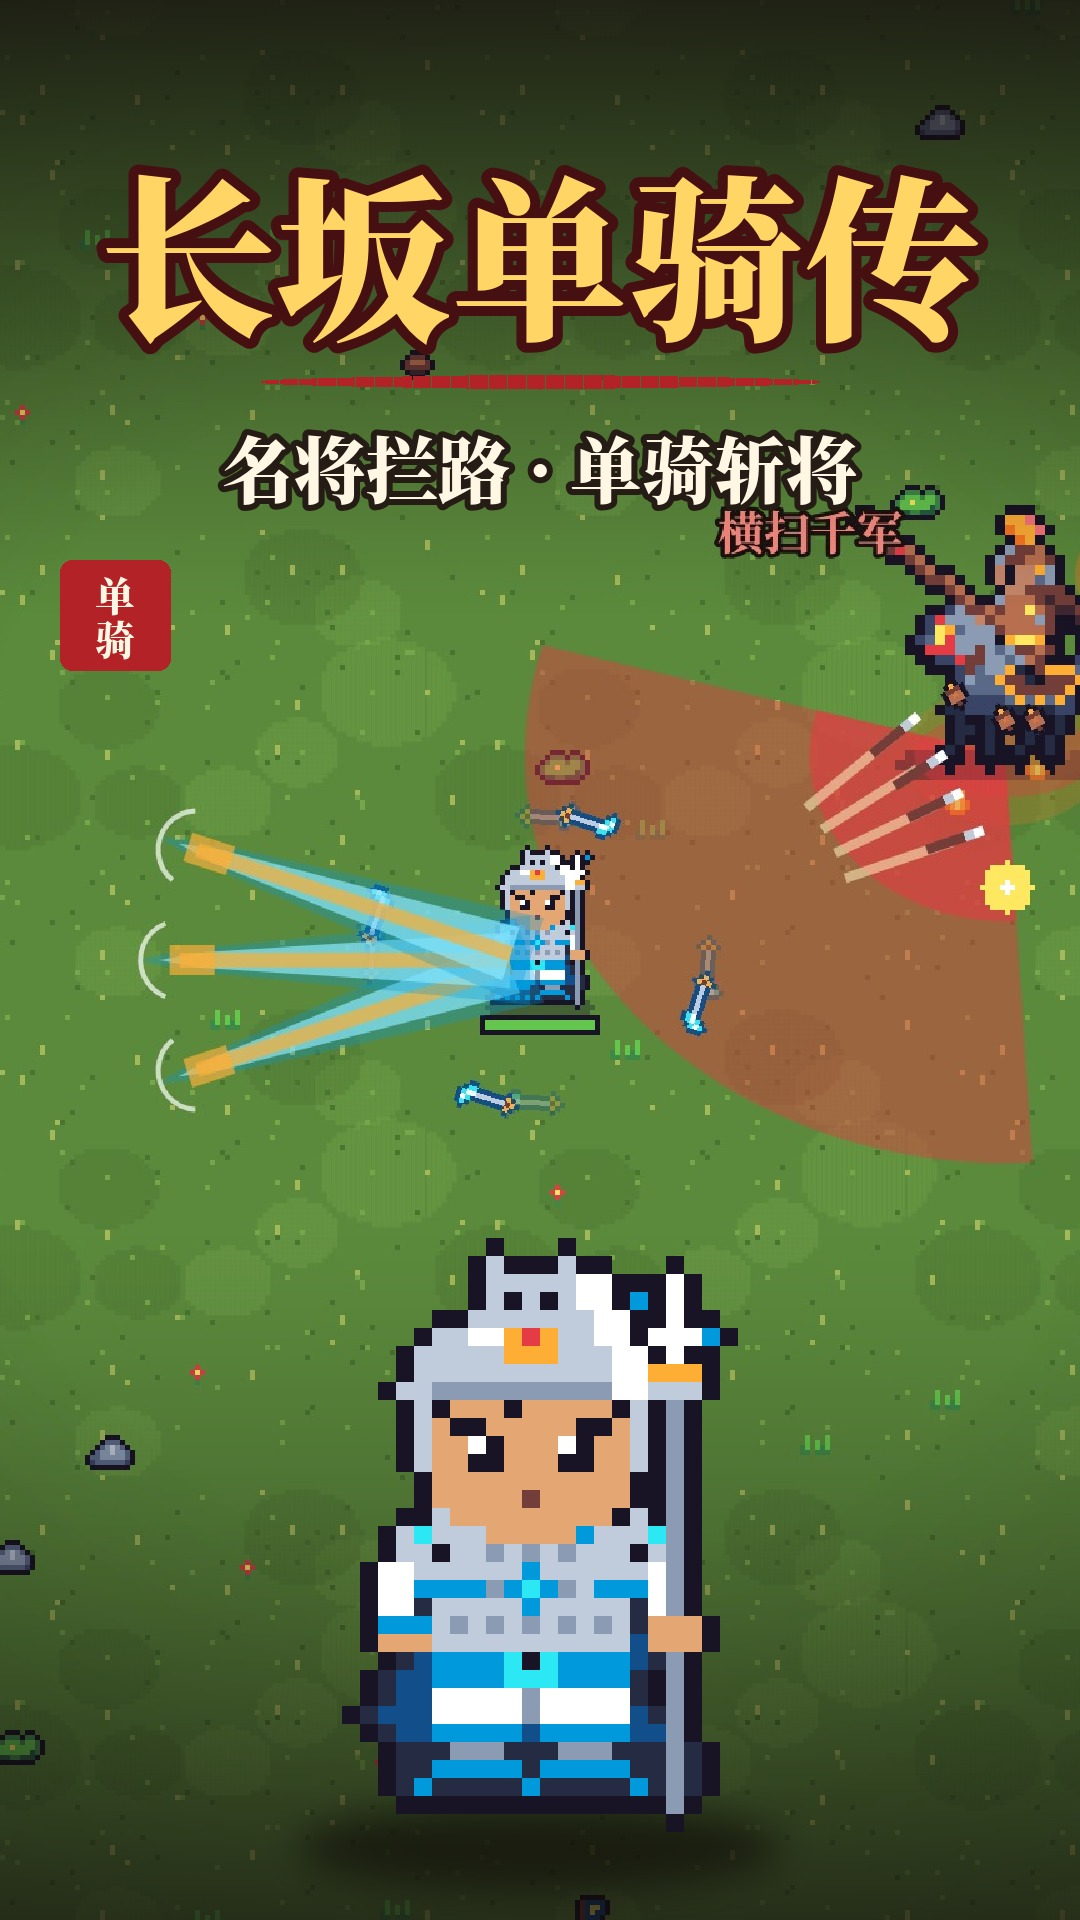
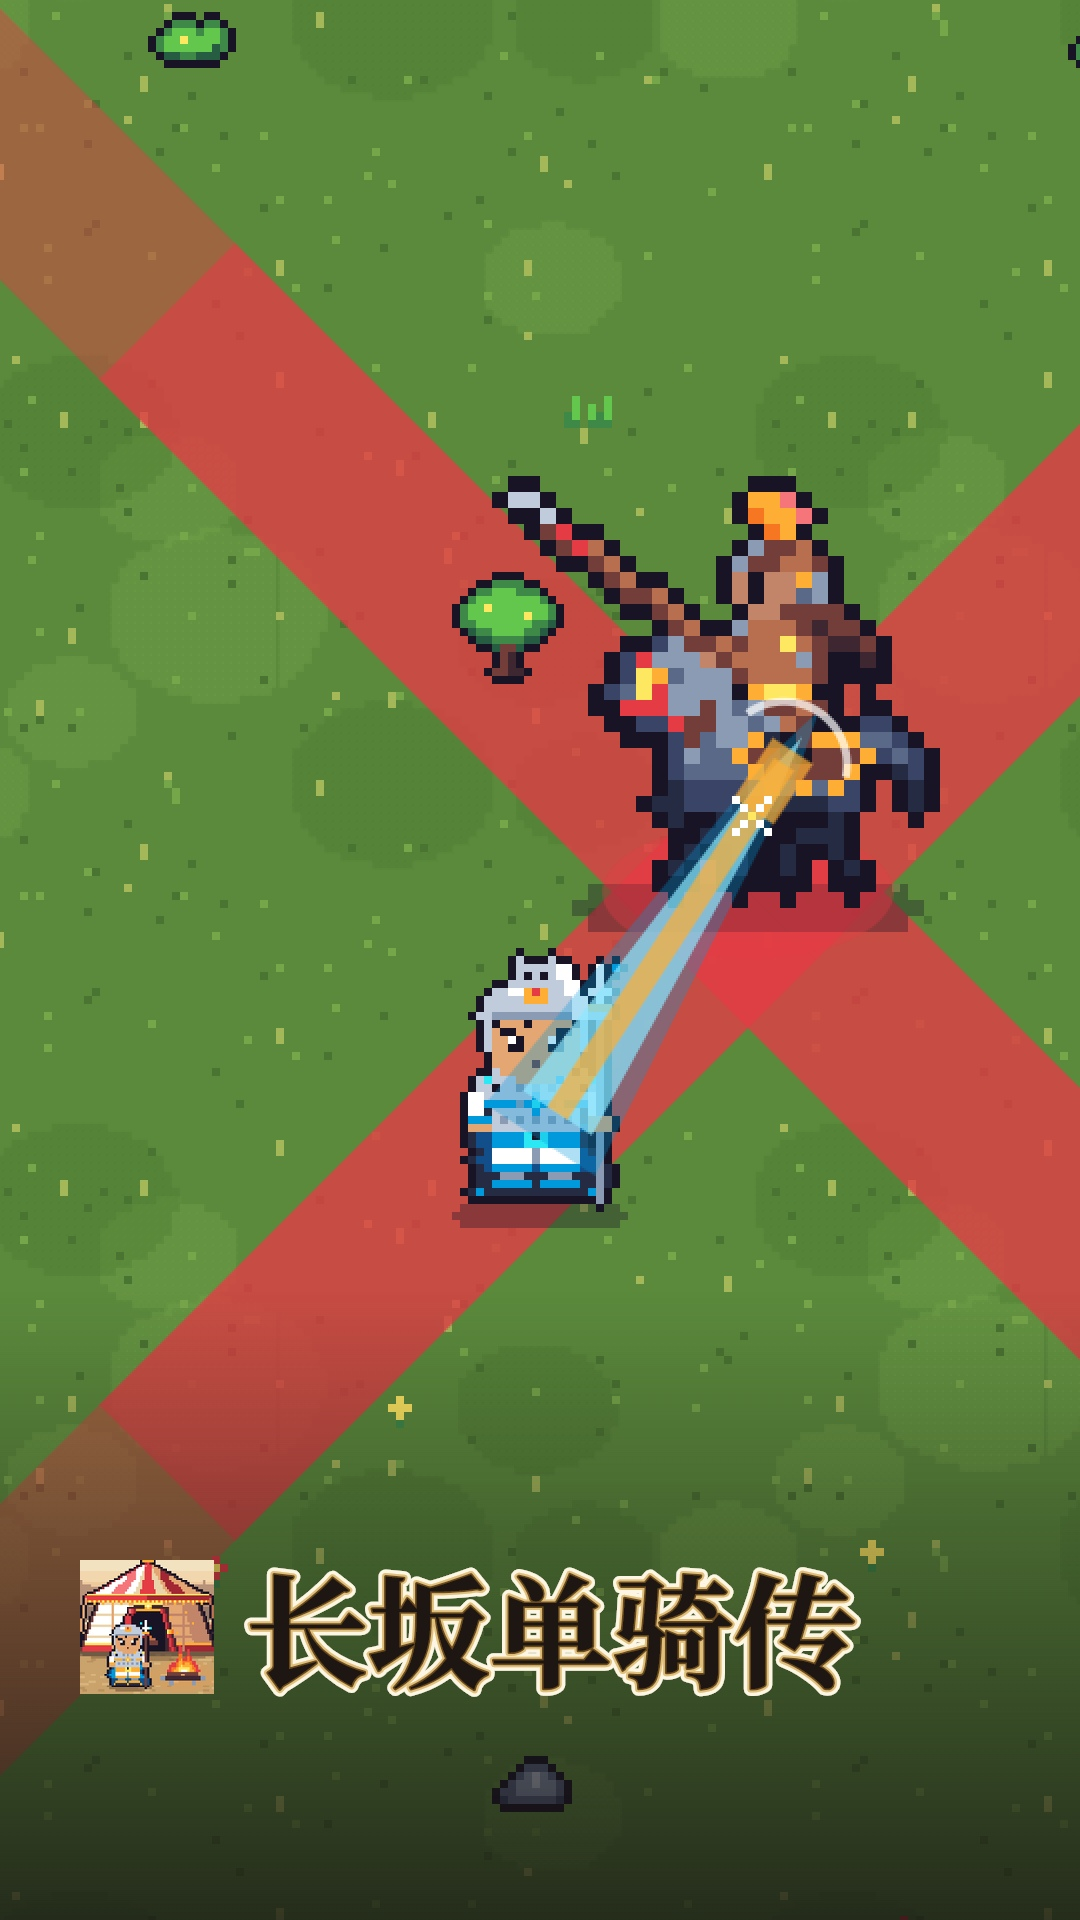
重做三张竖版实机视频封面，突出战斗玩法和游戏标识

diff --git a/src/battle/render.ts b/src/battle/render.ts
@@ -1,4 +1,5 @@
 import { CITY_R, ARENA_R, WALL_W, GATE_HALF, BUILD_SLOTS } from '../data/defense';
+import { DEBUG } from '../debug';
 
 /** 角度离最近的出怪口有多远 */
 function gateGap(a: number): number {
@@ -577,7 +578,7 @@ export class WorldRenderer {
       }
     }
     // 精英血条
-    if (e.elite && e.hp < e.maxHp) {
+    if (!DEBUG.noHud && e.elite && e.hp < e.maxHp) {
       const w = 20;
       const x = Math.round(e.x - w / 2 - this.camX), y = Math.round(e.y - s.h * sc - 2 - this.camY);
       g.fillStyle = '#181425';
@@ -605,6 +606,7 @@ export class WorldRenderer {
     } else this.blit(ps, p.x, p.y);
     g.globalAlpha = 1;
     // 血条
+    if (DEBUG.noHud) return;
     const w = 22;
     const x = Math.round(p.x - w / 2 - this.camX), y = Math.round(p.y + 4 - this.camY);
     g.fillStyle = '#181425';

diff --git a/tools/video/compose6.py b/tools/video/compose6.py
@@ -1,74 +1,37 @@
 # 竖版推广视频（2026-11-09）：三条 1080×1920 MP4（20~30 秒，H.264 + AAC 配乐）+ 三张封面（1080×1920 JPG < 500KB）。
-# 按投放要求：视频只有实机画面（含真实战斗界面和滑动摇杆操作），不加文字、不加特效；封面 = 实机画面 + 名将步战造型 + 游戏名 logo。
-# 用法：npm run build && node tools/video/record6.mjs && python3 tools/video/compose6.py <思源宋体 NotoSerifCJK-Black.ttc>
-#（封面的名将像素图来自 tools/shots/promo2.mjs 导出的 dist/promo2/sprites/）
+# 按投放要求：视频只有实机画面（含真实战斗界面和滑动摇杆操作），不加文字、不加特效；封面由游戏内无 HUD 战场与品牌标识组成。
+# 用法：npm run build && node tools/video/record6.mjs && python3 tools/video/compose6.py
+# 封面由 vertical-covers 直接在无 HUD 的游戏渲染层取景。
 import json, os, shutil, subprocess, sys
-from PIL import Image, ImageDraw, ImageFont, ImageFilter
-FONT = sys.argv[1]
 D = 'dist/video6/'
-SP = 'dist/promo2/sprites/'
 OUT = 'docs/promo/竖版视频/'
 os.makedirs(OUT, exist_ok=True)
 W, H = 1080, 1920
-def serif(sz): return ImageFont.truetype(FONT, sz, index=2)
-GOLD, CREAM, INK, CINNABAR = (255, 214, 102), (255, 246, 228), (38, 28, 22), (178, 34, 38)
+
+def covers():
+    subprocess.run(['node', 'tools/video/vertical-covers.mjs'], check=True)
+
+if os.environ.get('COVER_ONLY'):
+    covers()
+    sys.exit(0)
 meta = json.load(open(D + 'segments.json'))
 FPS = meta['fps']
 SEG = {s['name']: s for s in meta['segments']}
 A = 'assets/audio/'
-# （文件名，配乐，片段，封面帧，封面名将，封面小字，音效 [（名称，秒）]）
+# （文件名，配乐，片段，音效 [（名称，秒）]）
 VIDEOS = [
-    ('1_一骑当千', 'bgm_battle', ['v1_crowd', 'v1_ult', 'v1_crowd2', 'v1_ult2'], ('v1_crowd', 40), 'zhaoyun_4', '万军丛中 · 一骑当千',
+    ('1_一骑当千', 'bgm_battle', ['v1_crowd', 'v1_ult', 'v1_crowd2', 'v1_ult2'],
      [('sfx_horse', 0.2), ('sfx_thrust', 9.2), ('sfx_explode', 9.3), ('sfx_explode', 11.0), ('sfx_thrust', 19.3), ('sfx_explode', 19.4), ('sfx_explode', 21.0)]),
-    ('2_名将大招', 'bgm_battle', ['v2_guanyu', 'v2_lvbu', 'v2_sunshangxiang', 'v2_zhuge'], ('v2_lvbu', 45), 'lvbu_4', '十大名将 · 五星觉醒',
+    ('2_名将大招', 'bgm_battle', ['v2_guanyu', 'v2_lvbu', 'v2_sunshangxiang', 'v2_zhuge'],
      [('sfx_horse', 0.3), ('sfx_explode', 0.8), ('sfx_explode', 6.8), ('sfx_shoot', 12.7), ('sfx_shoot', 13.2), ('sfx_explode', 18.8), ('sfx_explode', 19.6)]),
-    ('3_敌将对决', 'bgm_boss', ['v3_cross', 'v3_rain', 'v3_shield', 'v3_kill'], ('v3_cross', 100), 'machao_4', '名将拦路 · 单骑斩将',
+    ('3_敌将对决', 'bgm_boss', ['v3_cross', 'v3_rain', 'v3_shield', 'v3_kill'],
      [('sfx_boss', 0.1), ('sfx_explode', 1.3), ('sfx_explode', 4.4), ('sfx_explode', 7.4), ('sfx_explode', 10.4), ('sfx_boss', 12.1), ('sfx_explode', 15.0), ('sfx_victory', 19.5)]),
 ]
 # 第二版视频带真实界面和摇杆：整帧 1080×1920 原样输出，不再裁切放大（否则界面边缘被裁掉）
 CW, CH = W, H
 def frame_path(seg, i): return D + 'frames/%05d.jpg' % (SEG[seg]['start'] + i)
 
-def cover(seg, idx, hero, sub):
-    im = Image.open(frame_path(seg, idx)).convert('RGB').crop(((W - CW) // 2, (H - CH) // 2, (W + CW) // 2, (H + CH) // 2)).resize((W, H), Image.NEAREST)
-    ov = Image.new('RGBA', (W, H), (0, 0, 0, 0)); d = ImageDraw.Draw(ov)
-    for y in range(620):    # 顶部压暗放标题
-        d.line([0, y, W, y], fill=(18, 10, 12, int(200 * (1 - y / 620) ** 1.2)))
-    for y in range(700):    # 底部压暗衬名将
-        d.line([0, H - y, W, H - y], fill=(18, 10, 12, int(170 * (1 - y / 700) ** 1.4)))
-    im = im.convert('RGBA'); im.alpha_composite(ov)
-    # 名将步战造型（游戏内美术，最近邻放大），不描光边，只在脚下压一片影子
-    k = 18
-    sp = Image.open(SP + hero + '.png').convert('RGBA')
-    sp = sp.resize((sp.width * k, sp.height * k), Image.NEAREST)
-    x = (W - sp.width) // 2; y = H - sp.height - 70
-    sh = Image.new('L', (W, H), 0)
-    ImageDraw.Draw(sh).ellipse([x + sp.width * 0.08, y + sp.height - 46, x + sp.width * 0.92, y + sp.height + 40], fill=150)
-    im.paste(Image.new('RGBA', (W, H), (12, 8, 6, 255)), (0, 0), sh.filter(ImageFilter.GaussianBlur(18)))
-    im.alpha_composite(sp, (x, y))
-    d = ImageDraw.Draw(im)
-    d.text((W / 2, 250), '长坂单骑传', font=serif(176), fill=GOLD, anchor='mm', stroke_width=10, stroke_fill=(70, 16, 18))
-    # 朱红飞白横线 + 小字
-    for i in range(560):
-        t = i / 560; w = 14 * max(0, 1 - abs(t - 0.5) * 2) ** 0.5
-        if (i * 7919) % 19: d.line([W / 2 - 280 + i, 382 - w / 2, W / 2 - 280 + i, 382 + w / 2], fill=CINNABAR)
-    d.text((W / 2, 466), sub, font=serif(72), fill=CREAM, anchor='mm', stroke_width=6, stroke_fill=INK)
-    # 「单骑」朱印
-    s = 110; sx, sy = 60, 560
-    d.rounded_rectangle([sx, sy, sx + s, sy + s], radius=12, fill=CINNABAR)
-    f = serif(40)
-    d.text((sx + s / 2, sy + s * 0.3), '单', font=f, fill=CREAM, anchor='mm'); d.text((sx + s / 2, sy + s * 0.7), '骑', font=f, fill=CREAM, anchor='mm')
-    return im.convert('RGB')
-
-def save_jpeg(im, path, kb):
-    for q in (92, 88, 85, 82, 78, 74, 70, 66, 62, 58):
-        im.save(path, 'JPEG', quality=q, optimize=True, progressive=True)
-        if os.path.getsize(path) < kb * 1024: break
-    return q, os.path.getsize(path) // 1024
-
-for vname, bgm, segs, (cseg, cidx), hero, sub, cues in VIDEOS:
-    if os.environ.get('COVER_ONLY'):
-        print(vname, save_jpeg(cover(cseg, cidx, hero, sub), OUT + f'竖版视频封面{vname}_1080x1920.jpg', 495)); continue
+for vname, bgm, segs, cues in VIDEOS:
     out = D + 'out_' + vname + '/'
     shutil.rmtree(out, ignore_errors=True); os.makedirs(out)
     n = 0; kills = []
@@ -94,5 +57,5 @@ for vname, bgm, segs, (cseg, cidx), hero, sub, cues in VIDEOS:
                     '-crf', '19', '-maxrate', '10M', '-bufsize', '16M', '-preset', 'slow',
                     '-c:a', 'aac', '-b:a', '160k', '-movflags', '+faststart', '-shortest', dst], check=True)
     if os.environ.get('VIDEO_ONLY'): print(vname, round(total, 1), 's', os.path.getsize(dst) // 1024 // 1024, 'MB'); continue
-    q, kb = save_jpeg(cover(cseg, cidx, hero, sub), OUT + f'竖版视频封面{vname}_1080x1920.jpg', 495)
-    print(vname, round(total, 1), 's', os.path.getsize(dst) // 1024 // 1024, 'MB；封面', kb, 'KB q', q)
+if not os.environ.get('VIDEO_ONLY'):
+    covers()

diff --git a/docs/promo/竖版视频/上传说明.md b/docs/promo/竖版视频/上传说明.md
@@ -3,7 +3,7 @@
 三条视频都是 1080×1920 的 MP4（H.264 + AAC 配乐），时长 23~24 秒，大小 14~29 MB。画面全是实机录制，没有后期加的文字和特效。
 
 第二版（用户要求）：带真实的战斗界面，包括等级、斩敌、计时、兵器栏、大招、金疮药、连斩、名将大招立绘切入，全程是真实的滑动摇杆操作。升级、锦囊这类选择弹窗不录。
-每条视频配一张封面：1080×1920 的 JPG，都小于 500 KB。封面由实机画面、名将步战造型和游戏名「长坂单骑传」组成。
+每条视频配一张 1080×1920 的 JPG（小于 500 KB）。新版封面在游戏内单独取景：赵云迎敌、关羽释放青龙刀气、马超对战文丑。关闭 HUD、血条、伤害数字和弹窗，战场铺满画面，底部使用游戏头像与名称。上传时按序号配对。
 
 | 视频 | 内容 | 封面 |
 |---|---|---|
@@ -11,8 +11,6 @@
 | `竖版视频2_名将大招_1080x1920.mp4` | 关羽、吕布、孙尚香、诸葛亮依次放大招 | `竖版视频封面2_名将大招_1080x1920.jpg` |
 | `竖版视频3_敌将对决_1080x1920.mp4` | 马超对战敌将文丑：躲十字刀气、扇形横扫、箭雨、震地，最后破盾斩将 | `竖版视频封面3_敌将对决_1080x1920.jpg` |
 
-重新生成：`npm run build && node tools/video/record6.mjs && python3 tools/video/compose6.py <NotoSerifCJK-Black.ttc>`
-- 封面里的名将像素图来自 `tools/shots/promo2.mjs`。
-- 只重做封面：加 `COVER_ONLY=1`。
-- 录制时画面按手机竖屏放大 4 倍渲染，整帧原样输出，不裁切。
-- 只重做视频：加 `VIDEO_ONLY=1`。封面沿用第一版的实机画面（没有界面），因为封面上要放游戏名和名将。
+重新生成视频和封面：先运行 `npm run build` 和 `node tools/video/record6.mjs`，再运行 `python3 tools/video/compose6.py`。
+- 只重做封面：构建网页版后运行 `node tools/video/vertical-covers.mjs`（依赖 Playwright；使用本机 Edge 时设置 `BROWSER_CHANNEL=msedge`）。不需要旧视频录制帧。
+- 只重做视频：合成前设置 `VIDEO_ONLY=1`。视频保留真实战斗界面与摇杆，和封面分别生成。
